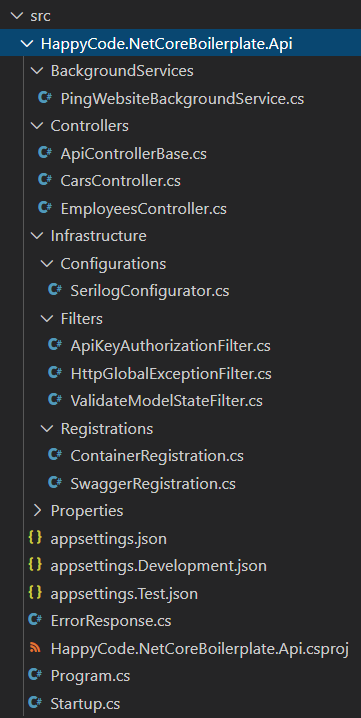
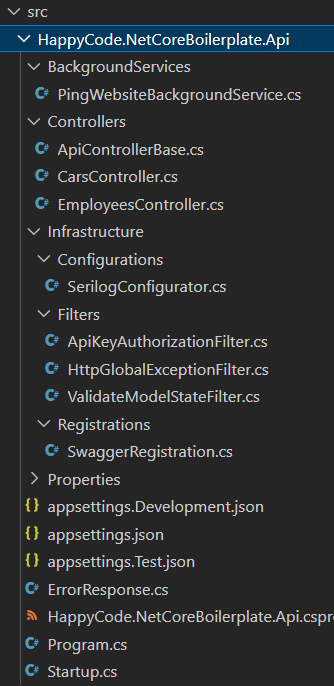
refresh of code (#137)
* small refresh of code

* added exclude from code coverage

* added PeriodicTimer to BackgroundService

* some small adjustmants

* removed redundant package

* more ignored files in code coverage

Changed region(s): [[0.0, 0.0, 1.0, 1.0]]

diff --git a/src/HappyCode.NetCoreBoilerplate.Api/BackgroundServices/PingWebsiteBackgroundService.cs b/src/HappyCode.NetCoreBoilerplate.Api/BackgroundServices/PingWebsiteBackgroundService.cs
@@ -8,6 +8,7 @@ namespace HappyCode.NetCoreBoilerplate.Api.BackgroundServices
 {
     public class PingWebsiteBackgroundService : BackgroundService
     {
+        private readonly PeriodicTimer _timer;
         private readonly HttpClient _client;
         private readonly ILogger<PingWebsiteBackgroundService> _logger;
         private readonly IOptions<PingWebsiteSettings> _configuration;
@@ -20,24 +21,28 @@ namespace HappyCode.NetCoreBoilerplate.Api.BackgroundServices
             _client = httpClientFactory.CreateClient(nameof(PingWebsiteBackgroundService));
             _logger = logger;
             _configuration = configuration;
+             _timer = new PeriodicTimer(TimeSpan.FromMinutes(_configuration.Value.TimeIntervalInMinutes));
         }
 
         protected override async Task ExecuteAsync(CancellationToken cancellationToken)
         {
             while (!cancellationToken.IsCancellationRequested)
             {
-                _logger.LogInformation($"{nameof(PingWebsiteBackgroundService)} running at '{DateTime.Now}', pinging '{_configuration.Value.Url}'");
+                _logger.LogInformation("{BackgroundService} running at '{Date}', pinging '{URL}'",
+                    nameof(PingWebsiteBackgroundService), DateTime.Now, _configuration.Value.Url);
                 try
                 {
                     using var response = await _client.GetAsync(_configuration.Value.Url, HttpCompletionOption.ResponseHeadersRead, cancellationToken);
-                    _logger.LogInformation($"Is '{_configuration.Value.Url.Authority}' responding: {response.IsSuccessStatusCode}");
+                    _logger.LogInformation("Is '{Host}' responding: {Status}",
+                        _configuration.Value.Url.Authority, response.IsSuccessStatusCode);
                 }
                 catch (Exception ex)
                 {
                     _logger.LogWarning(ex, "Error during ping");
                 }
-                await Task.Delay(TimeSpan.FromMinutes(_configuration.Value.TimeIntervalInMinutes), cancellationToken);
+                await _timer.WaitForNextTickAsync(cancellationToken);
             }
+            _timer.Dispose();
         }
     }
 }

diff --git a/src/HappyCode.NetCoreBoilerplate.Api/Startup.cs b/src/HappyCode.NetCoreBoilerplate.Api/Startup.cs
@@ -1,21 +1,21 @@
+using HappyCode.NetCoreBoilerplate.Api.BackgroundServices;
+using HappyCode.NetCoreBoilerplate.Api.Infrastructure.Configurations;
+using HappyCode.NetCoreBoilerplate.Api.Infrastructure.Filters;
+using HappyCode.NetCoreBoilerplate.Api.Infrastructure.Registrations;
+using HappyCode.NetCoreBoilerplate.Core;
+using HappyCode.NetCoreBoilerplate.Core.Registrations;
+using HappyCode.NetCoreBoilerplate.Core.Settings;
+using HealthChecks.UI.Client;
 using Microsoft.AspNetCore.Builder;
+using Microsoft.AspNetCore.Diagnostics.HealthChecks;
 using Microsoft.AspNetCore.Hosting;
+using Microsoft.EntityFrameworkCore;
 using Microsoft.Extensions.Configuration;
 using Microsoft.Extensions.DependencyInjection;
-using HappyCode.NetCoreBoilerplate.Api.Infrastructure.Configurations;
-using Swashbuckle.AspNetCore.SwaggerUI;
-using HappyCode.NetCoreBoilerplate.Core;
-using Microsoft.EntityFrameworkCore;
-using HappyCode.NetCoreBoilerplate.Api.BackgroundServices;
-using HappyCode.NetCoreBoilerplate.Api.Infrastructure.Filters;
 using Microsoft.Extensions.Hosting;
-using HappyCode.NetCoreBoilerplate.Api.Infrastructure.Registrations;
-using HappyCode.NetCoreBoilerplate.Core.Settings;
-using HappyCode.NetCoreBoilerplate.Core.Extensions;
-using Microsoft.AspNetCore.Diagnostics.HealthChecks;
-using HealthChecks.UI.Client;
 using Microsoft.FeatureManagement;
 using Microsoft.FeatureManagement.FeatureFilters;
+using Swashbuckle.AspNetCore.SwaggerUI;
 
 namespace HappyCode.NetCoreBoilerplate.Api
 {

diff --git a/src/HappyCode.NetCoreBoilerplate.Core/Registrations/CoreRegistrations.cs b/src/HappyCode.NetCoreBoilerplate.Core/Registrations/CoreRegistrations.cs
@@ -2,9 +2,9 @@ using HappyCode.NetCoreBoilerplate.Core.Repositories;
 using HappyCode.NetCoreBoilerplate.Core.Services;
 using Microsoft.Extensions.DependencyInjection;
 
-namespace HappyCode.NetCoreBoilerplate.Core.Extensions
+namespace HappyCode.NetCoreBoilerplate.Core.Registrations
 {
-    public static class DependencyInjectionExtensions
+    public static class CoreRegistrations
     {
         public static IServiceCollection AddCoreComponents(this IServiceCollection services)
         {

diff --git a/test/HappyCode.NetCoreBoilerplate.Api.IntegrationTests/Infrastructure/TestStartup.cs b/test/HappyCode.NetCoreBoilerplate.Api.IntegrationTests/Infrastructure/TestStartup.cs
@@ -1,7 +1,7 @@
 using HappyCode.NetCoreBoilerplate.Api.Infrastructure.Filters;
 using HappyCode.NetCoreBoilerplate.Api.IntegrationTests.Infrastructure.DataFeeders;
 using HappyCode.NetCoreBoilerplate.Core;
-using HappyCode.NetCoreBoilerplate.Core.Extensions;
+using HappyCode.NetCoreBoilerplate.Core.Registrations;
 using Microsoft.AspNetCore.Builder;
 using Microsoft.AspNetCore.Hosting;
 using Microsoft.EntityFrameworkCore;

diff --git a/test/HappyCode.NetCoreBoilerplate.Api.IntegrationTests/ModuleInitializer.cs b/test/HappyCode.NetCoreBoilerplate.Api.IntegrationTests/ModuleInitializer.cs
@@ -1,4 +1,4 @@
-using System.Runtime.CompilerServices;
+using System.Runtime.CompilerServices;
 using VerifyTests;
 
 public static class ModuleInitializer
@@ -6,6 +6,6 @@ public static class ModuleInitializer
     [ModuleInitializer]
     public static void Initialize()
     {
-        VerifyHttp.Enable();
+        VerifyHttp.Initialize();
     }
 }

diff --git a/README.md b/README.md
@@ -66,6 +66,7 @@ of starting an empty project and adding the same snippets each time, you can use
 
 [HappyCode.NetCoreBoilerplate.Api](src/HappyCode.NetCoreBoilerplate.Api)
 
+* The entry point of the app - [Program.cs](src/HappyCode.NetCoreBoilerplate.Api/Program.cs)
 * Simple Startup class - [Startup.cs](src/HappyCode.NetCoreBoilerplate.Api/Startup.cs)
   * MvcCore
   * DbContext (with MySQL)
@@ -81,9 +82,8 @@ of starting an empty project and adding the same snippets each time, you can use
   * Action filter to validate `ModelState` - [ValidateModelStateFilter.cs](src/HappyCode.NetCoreBoilerplate.Api/Infrastructure/Filters/ValidateModelStateFilter.cs)
   * Global exception filter - [HttpGlobalExceptionFilter.cs](src/HappyCode.NetCoreBoilerplate.Api/Infrastructure/Filters/HttpGlobalExceptionFilter.cs)
 * Configurations
-  * Dependency registration place - [ContainerConfigurator.cs](src/HappyCode.NetCoreBoilerplate.Api/Infrastructure/Configurations/ContainerConfigurator.cs)
   * `Serilog` configuration place - [SerilogConfigurator.cs](src/HappyCode.NetCoreBoilerplate.Api/Infrastructure/Configurations/SerilogConfigurator.cs)
-  * `Swagger` configuration place - [SwaggerConfigurator.cs](src/HappyCode.NetCoreBoilerplate.Api/Infrastructure/Configurations/SwaggerConfigurator.cs)
+  * `Swagger` registration place - [SwaggerRegistration.cs](src/HappyCode.NetCoreBoilerplate.Api/Infrastructure/Registrations/SwaggerRegistration.cs)
 * Simple exemplary API controllers - [EmployeesController.cs](src/HappyCode.NetCoreBoilerplate.Api/Controllers/EmployeesController.cs), [CarsController.cs](src/HappyCode.NetCoreBoilerplate.Api/Controllers/CarsController.cs)
 * Example of BackgroundService - [PingWebsiteBackgroundService.cs](src/HappyCode.NetCoreBoilerplate.Api/BackgroundServices/PingWebsiteBackgroundService.cs)
 
@@ -93,14 +93,16 @@ of starting an empty project and adding the same snippets each time, you can use
 
 [HappyCode.NetCoreBoilerplate.Core](src/HappyCode.NetCoreBoilerplate.Core)
 
-* Dto models
-* DB models
-* Registration module - [GeneralRegisterModule.cs](src/HappyCode.NetCoreBoilerplate.Core/RegisterModules/GeneralRegisterModule.cs)
+* Models
+  * Dto models
+  * DB models
+  * AppSettings models - [Settings](src/HappyCode.NetCoreBoilerplate.Core/Settings)
+* DbContexts
+  * MySQL DbContext - [EmployeesContext.cs](src/HappyCode.NetCoreBoilerplate.Core/EmployeesContext.cs)
+  * MsSQL DbContext - [CarsContext.cs](src/HappyCode.NetCoreBoilerplate.Core/CarsContext.cs)
+* Core registrations - [CoreRegistrations.cs](src/HappyCode.NetCoreBoilerplate.Core/Registrations/CoreRegistrations.cs)
 * Exemplary MySQL repository - [EmployeeRepository.cs](src/HappyCode.NetCoreBoilerplate.Core/Repositories/EmployeeRepository.cs)
 * Exemplary MsSQL service - [CarService.cs](src/HappyCode.NetCoreBoilerplate.Core/Services/CarService.cs)
-* AppSettings models
-* Simple MySQL DbContext - [EmployeesContext.cs](src/HappyCode.NetCoreBoilerplate.Core/EmployeesContext.cs)
-* Simple MsSQL DbContext - [CarsContext.cs](src/HappyCode.NetCoreBoilerplate.Core/CarsContext.cs)
 
 ![HappyCode.NetCoreBoilerplate.Core](.assets/core.png "HappyCode.NetCoreBoilerplate.Core")
 
